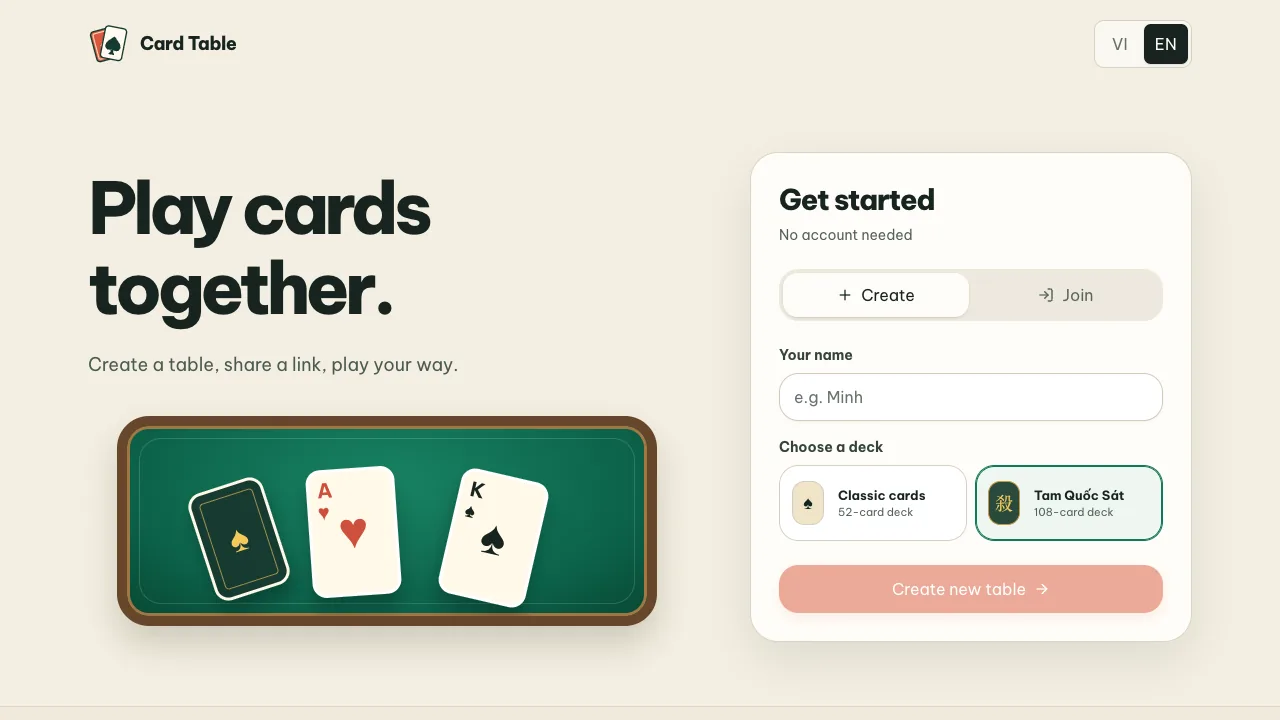
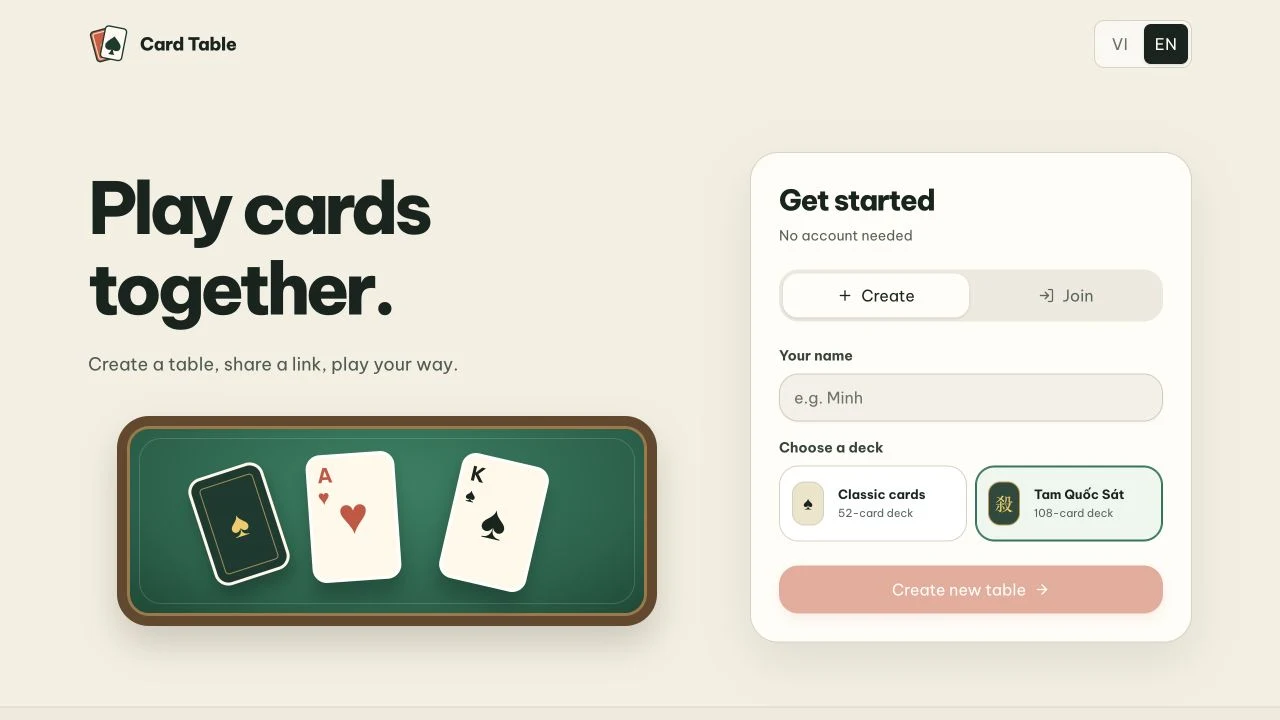
Refresh Card Table listing screenshot and name

diff --git a/src/app/apps.ts b/src/app/apps.ts
@@ -11,7 +11,7 @@ export type App = {
 
 export const apps: App[] = [
   {
-    name: "Bàn Bài",
+    name: "Card Table",
     category: "Game",
     image: "/project-screenshots/ban-bai-home.webp",
     description:
